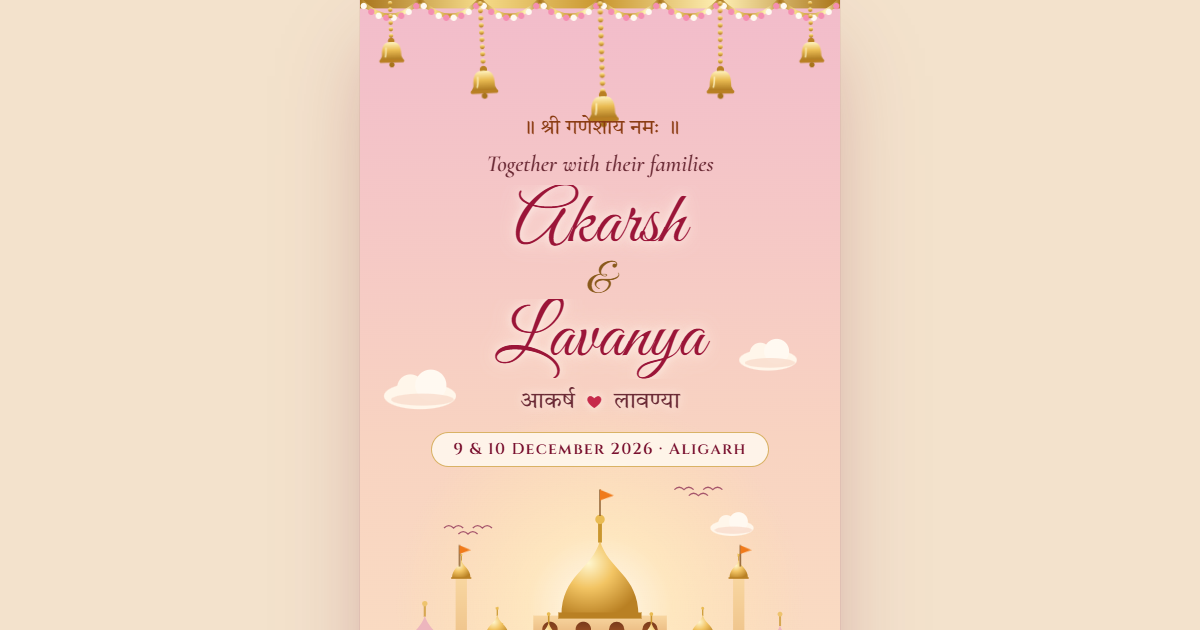
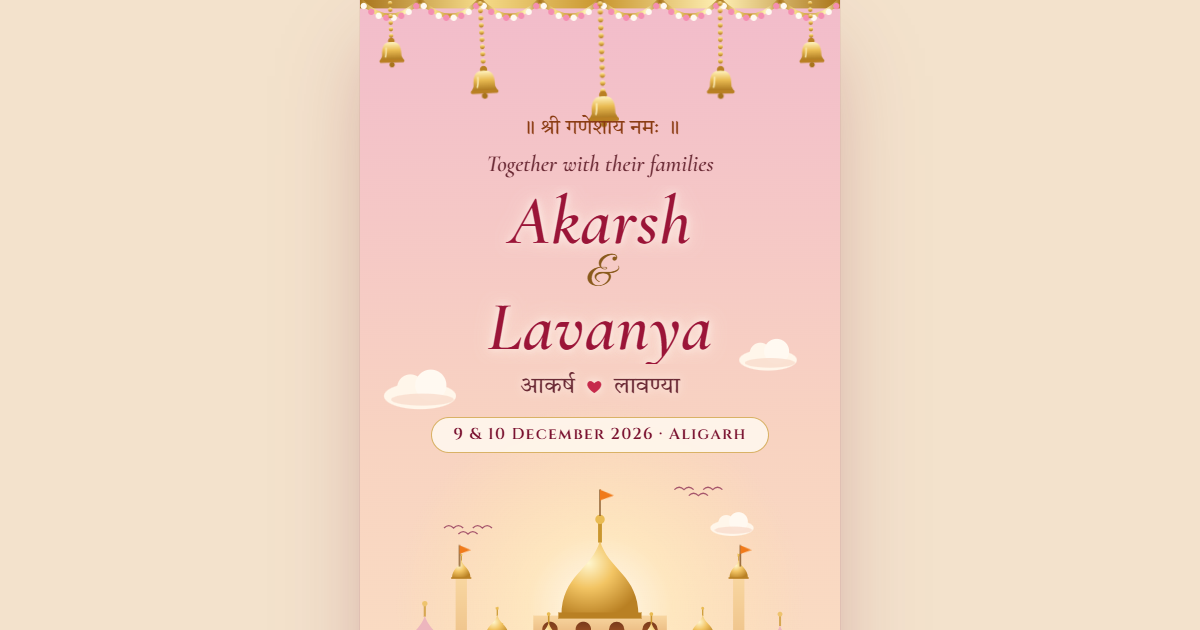
Remove RSVP form and Meet section, clear names font, wedding song
- Remove the RSVP form and the Meet the Bride & Groom section.
- Names (hero, invitation, footer) move from the script font, whose
  capital A read like a G, to Cormorant Garamond italic.
- The doors now start the wedding song (public/song.mp3, Jashn-E-Bahaara)
  inside the tap, with a "Now playing" note; until that file exists the
  composed score plays instead.

Changed region(s): [[0.3392, 0.4825, 0.6475, 0.754], [0.4317, 0.3016, 0.5858, 0.4524]]

diff --git a/app/globals.css b/app/globals.css
@@ -63,7 +63,7 @@ button{font:inherit;color:inherit;background:none;border:0;cursor:pointer}
 .bless{font-size:4.3cqw;color:#8a3b12}
 .kick{font:italic 600 4.8cqw/1.3 var(--f-body);color:#6b2a35;margin-top:1.4cqw}
 .names{display:flex;flex-direction:column;align-items:center;font-weight:400;margin-top:1cqw}
-.nm{display:block;font:400 15.5cqw/1.08 var(--f-script),cursive;color:#9b1538;padding:0 .2em;
+.nm{display:block;font:italic 600 14.5cqw/1.05 var(--f-body),Georgia,serif;letter-spacing:.01em;color:#9b1538;padding:0 .2em;
   text-shadow:0 0 .12em rgba(255,250,242,.95),0 0 .3em rgba(255,240,225,.8)}
 .amp{font:400 9cqw/1 var(--f-script),cursive;color:var(--gold-d);margin:-1cqw 0}
 .hinames{font-size:4.8cqw;margin-top:1.6cqw;color:#6b2a35;text-shadow:0 0 .4em rgba(255,250,242,.9)}
@@ -85,7 +85,7 @@ button{font:inherit;color:inherit;background:none;border:0;cursor:pointer}
 .shloka{font-size:4.5cqw;line-height:1.7;color:var(--maroon);margin-top:3cqw}
 .divider{display:block;width:40cqw;height:3cqw;margin:4cqw auto 0;background:linear-gradient(90deg,transparent,var(--gold) 30%,var(--gold) 70%,transparent) 50% 50%/100% 1.5px no-repeat}
 .divider::after{content:"❖";display:block;font-size:3cqw;line-height:3cqw;color:var(--gold);font-style:normal}
-.nm2{font:400 13cqw/1.1 var(--f-script),cursive;color:#9b1538;margin-top:2cqw}
+.nm2{font:italic 600 11.5cqw/1.1 var(--f-body),Georgia,serif;color:#9b1538;margin-top:2cqw}
 .amp2{font:400 7cqw/1 var(--f-script),cursive;color:var(--gold-d)}
 
 /* ---------- a date to remember: scratch the hearts ---------- */
@@ -139,54 +139,11 @@ button{font:inherit;color:inherit;background:none;border:0;cursor:pointer}
 .bn-cal{display:inline-flex;align-items:center;min-height:40px;margin-top:4cqw;padding:0 5cqw;border-radius:99px;font:600 max(14px,3.8cqw)/1 var(--f-body);
   color:#fff3dc;text-decoration:none;border:1px solid rgba(233,187,82,.85)}
 
-/* ---------- meet the bride & groom: a lotus frame ---------- */
-.frame{position:relative;margin:9cqw auto 0;width:88cqw;aspect-ratio:300/380}
-.frame>svg{position:absolute;inset:0;width:100%;height:100%}
-.fr-in{position:absolute;inset:16cqw 9cqw 12cqw;display:flex;flex-direction:column;align-items:center;justify-content:center}
-.pair{display:flex;justify-content:center;gap:8cqw}
-.who{display:flex;flex-direction:column;align-items:center}
-.medal{display:grid;place-items:center;width:17cqw;height:17cqw;border-radius:50%;font:400 10cqw/1 var(--f-script),cursive;color:var(--ivory);
-  background:radial-gradient(circle at 35% 30%,#c22a52,#7a1230);box-shadow:0 0 0 1cqw #fffaf2,0 0 0 1.5cqw var(--gold),0 2cqw 4cqw rgba(122,18,48,.3)}
-.who b{font:600 5.6cqw/1.2 var(--f-body);color:var(--maroon);margin-top:3cqw}
-.who .hi{font-size:3.8cqw;color:#8a3b12}
-.who em{font:600 2.8cqw/1.4 var(--f-caps),serif;font-style:normal;letter-spacing:.2em;text-transform:uppercase;color:var(--gold-d)}
-.fr-in .body{font-size:4.5cqw;margin-top:5cqw}
-.sig{font:400 7.4cqw/1.1 var(--f-script),cursive;color:var(--rose);margin-top:3cqw}
-
 /* ---------- venue ---------- */
 .v-art{margin:7cqw auto 0;width:86cqw;border-radius:4cqw;overflow:hidden;box-shadow:0 0 0 1.4cqw var(--ivory),0 0 0 calc(1.4cqw + 1.5px) var(--gold),0 4cqw 8cqw rgba(122,18,48,.18)}
 .v-art svg{display:block;width:100%;height:auto}
 .v-name{font:600 8cqw/1.15 var(--f-body);color:var(--maroon);margin-top:7cqw}
 .venue .body{margin-top:1cqw;font-style:normal;font-weight:600}
-
-/* ---------- RSVP: a maroon card ---------- */
-.card{max-width:88cqw;margin:0 auto;padding:10cqw 7cqw 8cqw;border-radius:5cqw;text-align:left;color:#fff3dc;
-  background:radial-gradient(circle at 50% 0,rgba(233,187,82,.18),transparent 55%),linear-gradient(#8d1736,#5c0c22);
-  border:2px solid #e9bb52;box-shadow:inset 0 0 0 1.4cqw #6d0c2a,inset 0 0 0 calc(1.4cqw + 1px) rgba(233,187,82,.6),0 5cqw 12cqw rgba(92,12,34,.35)}
-.r-title{font:400 11cqw/1.1 var(--f-script),cursive;color:#f6dc8a;text-align:center}
-.r-sub{font:italic 500 4.4cqw/1.3 var(--f-body);text-align:center;opacity:.9;margin-bottom:4cqw}
-.fld{display:block;border:0;margin-top:4.6cqw;font:600 3.9cqw/1.3 var(--f-body);letter-spacing:.02em;color:#f6dc8a}
-.fld legend{padding:0}
-.fld input,.fld textarea{display:block;width:100%;margin-top:1.6cqw;padding:3cqw 3.6cqw;border-radius:2.4cqw;border:1px solid rgba(233,187,82,.7);
-  background:rgba(255,250,242,.96);color:var(--ink);font:500 max(16px,4.4cqw)/1.3 var(--f-body);outline:none}
-.fld textarea{resize:vertical}
-.fld input:focus,.fld textarea:focus{box-shadow:0 0 0 3px rgba(233,187,82,.6)}
-.ph{display:flex;align-items:stretch;margin-top:1.6cqw}
-.ph>span{display:grid;place-items:center;padding:0 3cqw;border-radius:2.4cqw 0 0 2.4cqw;background:#e9bb52;color:var(--wine);font-weight:700}
-.ph input{margin-top:0;border-radius:0 2.4cqw 2.4cqw 0}
-.chips{display:flex;flex-wrap:wrap;gap:2.4cqw;margin-top:2cqw}
-.chip{position:relative}
-.chip input{position:absolute;opacity:0;width:1px;height:1px}
-.chip span{display:inline-flex;align-items:center;min-height:40px;padding:0 4cqw;border-radius:99px;border:1px solid rgba(233,187,82,.8);
-  font:600 max(14px,3.9cqw)/1 var(--f-body);color:#fff3dc;cursor:pointer;transition:background .2s,color .2s}
-.chip input:checked+span{background:#e9bb52;color:var(--wine)}
-.chip input:focus-visible+span{outline:3px solid #fff0b5;outline-offset:2px}
-.lbl{display:block}
-.stepper{display:inline-flex;align-items:center;gap:4cqw;margin-top:2cqw;padding:1cqw;border-radius:99px;border:1px solid rgba(233,187,82,.7)}
-.stepper button{width:44px;height:44px;border-radius:50%;background:#e9bb52;color:var(--wine);font:700 22px/1 var(--f-body)}
-.stepper output{min-width:6cqw;text-align:center;font:600 5cqw/1 var(--f-caps),serif;color:#fff3dc}
-.err{min-height:1.4em;margin-top:3cqw;font:italic 600 4cqw/1.3 var(--f-body);color:#ffd9e2}
-.card .btn{margin-top:2cqw}
 
 /* ---------- hashtag ---------- */
 .tag{padding-top:6cqw}
@@ -202,7 +159,7 @@ button{font:inherit;color:inherit;background:none;border:0;cursor:pointer}
 .toguest{font:italic 600 4.6cqw/1.3 var(--f-body);color:var(--rose);margin-top:2cqw}
 .toguest:empty{display:none}
 .sign{font:italic 500 4.6cqw/1.3 var(--f-body);margin-top:4cqw}
-.nmf{display:block;font:400 11cqw/1.2 var(--f-script),cursive;color:#9b1538}
+.nmf{display:block;font:italic 600 9.5cqw/1.25 var(--f-body),Georgia,serif;color:#9b1538}
 .e-art{position:relative;margin-top:8cqw;height:82.5cqw}
 .el{position:absolute;inset:0;width:100%;height:100%}
 
@@ -244,7 +201,7 @@ button{font:inherit;color:inherit;background:none;border:0;cursor:pointer}
 .muted .fab .eqi{display:none}
 .muted .fab .off{display:block}
 .toast{position:fixed;z-index:60;left:50%;bottom:calc(84px + env(safe-area-inset-bottom,0px));transform:translate(-50%,20px);background:rgba(92,12,34,.95);color:#fff3dc;
-  padding:12px 18px;border-radius:99px;font:600 16px/1 var(--f-body),serif;opacity:0;pointer-events:none;transition:all .3s;white-space:nowrap}
+  padding:12px 18px;border-radius:99px;font:600 16px/1 var(--f-body),serif;opacity:0;pointer-events:none;transition:all .3s;max-width:90vw;width:max-content;text-align:center;line-height:1.3}
 .toast.show{opacity:1;transform:translate(-50%,0)}
 .burst{position:fixed;inset:0;width:100vw;height:100vh;z-index:45;pointer-events:none}
 

diff --git a/lib/scenes.js b/lib/scenes.js
@@ -1,7 +1,7 @@
 /* Builds the whole invitation page from CONFIG: the peacock doors, then a royal scroll of sections.
    Pure functions (no browser APIs), so the page arrives as ready-made HTML.
    data-t="sheet.object" binds an element to its Theatre.js object (lib/timeline.js). */
-import { DEFS, PALACE_VB, POND_VB, palaceScene, pondScene, doorFrame, doorLeaf, bellsToran, kalash, lantern, mandala, lotusFrame, venueGate } from './art.js';
+import { DEFS, PALACE_VB, POND_VB, palaceScene, pondScene, doorFrame, doorLeaf, bellsToran, kalash, lantern, mandala, venueGate } from './art.js';
 
 export const E = s => String(s == null ? '' : s).replace(/[&<>"]/g, c => ({ '&': '&amp;', '<': '&lt;', '>': '&gt;', '"': '&quot;' }[c]));
 const U = encodeURIComponent;
@@ -92,43 +92,14 @@ function page(C) {
   ${C.events.map(banner).join('')}
 </section>
 
-<section class="sec meet" data-sec="meet" aria-label="Meet the bride and groom">
-  <h2 class="script-t" data-t="meet.t">Meet the Bride &amp; Groom</h2>
-  <div class="frame" data-t="meet.fr">${lotusFrame()}
-    <div class="fr-in">
-      <div class="pair">
-        <div class="who" data-t="meet.i0"><span class="medal">${E(a.en[0])}</span><b>${E(a.en)}</b><span class="hi">${E(a.hi)}</span><em>The Groom</em></div>
-        <div class="who" data-t="meet.i1"><span class="medal">${E(b.en[0])}</span><b>${E(b.en)}</b><span class="hi">${E(b.hi)}</span><em>The Bride</em></div>
-      </div>
-      <p class="body" data-t="meet.i2">${E(C.meetLine)}</p>
-      <p class="sig" data-t="meet.i3">${E(a.en)} &amp; ${E(b.en)}</p>
-    </div>
-  </div>
-</section>
-
 <section class="sec venue" data-sec="venue" aria-label="The venue">
+  <div class="mandala m-l" aria-hidden="true">${mandala()}</div>
   <p class="script-sub" data-t="venue.t0">${E(C.venue.line)}</p>
   <h2 class="cap big" data-t="venue.t1">The Venue</h2>
   <div class="v-art" data-t="venue.art">${venueGate()}</div>
   <h3 class="v-name" data-t="venue.i0">${E(C.venue.name)}</h3>
   <p class="body" data-t="venue.i1">${E(C.venue.address)}</p>
   <a class="btn" data-t="venue.i2" href="${mapsUrl(C)}" target="_blank" rel="noopener">Get Directions</a>
-</section>
-
-<section class="sec rsvp" data-sec="rsvp" aria-label="RSVP">
-  <div class="mandala m-l" aria-hidden="true">${mandala()}</div>
-  <form class="card" id="rsvp" data-t="rsvp.card" novalidate>
-    <p class="r-title" data-t="rsvp.t">Will you join us?</p>
-    <p class="r-sub">Kindly let us know, with all your love</p>
-    <label class="fld">Your name<input name="name" required autocomplete="name" maxlength="60"></label>
-    <label class="fld">Phone<span class="ph"><span>+91</span><input name="phone" type="tel" inputmode="tel" autocomplete="tel" maxlength="14"></span></label>
-    <fieldset class="fld"><legend>Which celebrations will you attend?</legend><div class="chips">${C.events.map(e => `<label class="chip"><input type="checkbox" name="ev" value="${E(e.short)}" checked><span>${E(e.short)}</span></label>`).join('')}</div></fieldset>
-    <fieldset class="fld"><legend>Team Bride or Team Groom?</legend><div class="chips">${[`Team ${b.en}`, `Team ${a.en}`, 'Team Both'].map((t, i) => `<label class="chip"><input type="radio" name="team" value="${E(t)}"${i === 2 ? ' checked' : ''}><span>${E(t)}</span></label>`).join('')}</div></fieldset>
-    <div class="fld"><span class="lbl">How many of you?</span><span class="stepper"><button type="button" data-d="-1" aria-label="Fewer guests">−</button><output id="guests" aria-live="polite">1</output><button type="button" data-d="1" aria-label="More guests">+</button></span></div>
-    <label class="fld">A little note for us<textarea name="note" rows="3" maxlength="400" placeholder="Share a wish, a memory, or just say hi!"></textarea></label>
-    <p class="err" id="rsvp-err" role="alert"></p>
-    <button class="btn gold" type="submit">Send your wishes</button>
-  </form>
 </section>
 
 <section class="sec tag" data-sec="tag" aria-label="Our hashtag">

diff --git a/lib/engine.js b/lib/engine.js
@@ -1,6 +1,6 @@
 /* Browser-side behaviour of the royal invitation: the peacock doors, Theatre.js entrances as each section
-   scrolls into view, music that follows the section you are on, scratch-to-reveal hearts, the countdown,
-   the RSVP form (sent on WhatsApp), hashtag copy, share and calendar. Returns a cleanup function. */
+   scrolls into view, the wedding song (or the composed score), scratch-to-reveal hearts, the countdown,
+   hashtag copy, share and calendar. Returns a cleanup function. */
 import { SHEETS, SECTIONS, MUSIC, CUES, buildState } from './timeline.js';
 import { createScore } from './score.js';
 
@@ -16,7 +16,7 @@ export function initInvitation(root, C) {
   const on = (t, ev, fn, o) => { t.addEventListener(ev, fn, o); cleanups.push(() => t.removeEventListener(ev, fn, o)); };
   let destroyed = false, ready = false, opened = false, wantOpen = false, u = 4;
   const sheets = {}, binds = [], played = new Set();
-  const score = createScore({ src: C.music && C.music.src });
+  const score = createScore({ src: C.music && C.music.src, onSong: () => C.music.title && say('♪ Now playing · ' + C.music.title) });
   html.classList.add('locked');
   if (film) html.classList.add('film');
   window.scrollTo(0, 0);
@@ -183,24 +183,6 @@ export function initInvitation(root, C) {
     cm.textContent = pad(Math.floor(s % 3600 / 60)); cs.textContent = pad(s % 60);
   }
   tick(); const cdTimer = setInterval(tick, 1000);
-
-  /* ---------- RSVP: compose a WhatsApp message ---------- */
-  let guests = 1;
-  const form = $('#rsvp'), out = $('#guests'), err = $('#rsvp-err');
-  root.querySelectorAll('.stepper button').forEach(b => on(b, 'click', () => { guests = Math.max(1, Math.min(20, guests + +b.dataset.d)); out.textContent = guests; }));
-  on(form, 'submit', e => {
-    e.preventDefault();
-    const f = new FormData(form), name = String(f.get('name') || '').trim(), events = f.getAll('ev');
-    if (!name) { err.textContent = 'Please tell us your name'; form.elements.namedItem('name').focus(); return; }
-    if (!events.length) { err.textContent = 'Please pick at least one celebration'; return; }
-    err.textContent = '';
-    const phone = String(f.get('phone') || '').replace(/[^\d+ ]/g, '').trim(), note = String(f.get('note') || '').trim();
-    const msg = [`🌸 RSVP · ${C.names[0].en} & ${C.names[1].en}`, `Name: ${name}`, phone && `Phone: +91 ${phone}`, `Attending: ${events.join(', ')}`,
-      `Guests: ${guests}`, `${f.get('team') || ''}`, note && `Note: ${note}`].filter(Boolean).join('\n');
-    const num = String(C.rsvp.whatsapp || '').replace(/\D/g, '');
-    window.open(`https://wa.me/${num}?text=${encodeURIComponent(msg)}`, '_blank', 'noopener');
-    say('Opening WhatsApp…'); score.sfx('chime');
-  });
 
   /* ---------- hashtag, share, calendar (iPhone gets a real .ics; others open Google Calendar) ---------- */
   let tt;

diff --git a/lib/score.js b/lib/score.js
@@ -1,7 +1,7 @@
 /* The original wedding score, composed and synthesized in code with Web Audio: no recordings, no samples.
    100 BPM in F major (one bar = 2.4 s). Santoor plucks, a tanpura drone, a shehnai lead, dholak, claps,
    ghungroo and temple bells. Every scene has its own 4-bar section; a change lands on the next downbeat.
-   CONFIG.music.src (your own licensed song) replaces the score; the sound effects stay. */
+   CONFIG.music.src (a song file in public/) replaces the score when the file exists; the sound effects stay. */
 const BPM = 100;
 export const BEAT = 60 / BPM, BAR = BEAT * 4;
 const mtof = m => 440 * Math.pow(2, (m - 69) / 12);
@@ -48,6 +48,13 @@ export function createScore(opts = {}) {
     if (navigator.audioSession) try { navigator.audioSession.type = 'playback'; } catch (e) { /* older Safari */ }
     ctx = new AC();
     ctx.resume();
+    if (opts.src && !song) {
+      song = new Audio(opts.src); song.loop = true; song.preload = 'auto';
+      const fail = () => { if (song) song.pause(); song = null; };   // no song file yet: the composed score plays instead
+      song.addEventListener('error', fail);
+      song.addEventListener('playing', () => opts.onSong && opts.onSong(), { once: true });
+      song.play().catch(e => { if (e.name !== 'AbortError') fail(); });
+    }
     return true;
   }
   function start(lead = .35) {
@@ -65,11 +72,6 @@ export function createScore(opts = {}) {
     comp.connect(master); master.connect(analyser); analyser.connect(ctx.destination);
     noise = ctx.createBuffer(1, ctx.sampleRate * 2, ctx.sampleRate);
     const nd = noise.getChannelData(0); for (let i = 0; i < nd.length; i++) nd[i] = Math.random() * 2 - 1;
-    if (opts.src) {
-      song = new Audio(opts.src); song.loop = true; song.crossOrigin = 'anonymous';
-      ctx.createMediaElementSource(song).connect(music);
-      song.play().catch(() => {});
-    }
     nextBar = ctx.currentTime + lead;
     timer = setInterval(sched, 30);
     sched();
@@ -262,7 +264,7 @@ export function createScore(opts = {}) {
       muted = m;
       if (!master) return;
       master.gain.setTargetAtTime(m ? 0 : vol, ctx.currentTime, .08);
-      if (song) m ? song.pause() : song.play().catch(() => {});
+      if (song) song.muted = m;
     },
     suspend() { if (ctx) { ctx.suspend(); if (song) song.pause(); } },
     resume() { if (ctx) { ctx.resume(); if (song && !muted) song.play().catch(() => {}); } },

diff --git a/lib/config.js b/lib/config.js
@@ -23,13 +23,12 @@ export const CONFIG = {
   gateLine: "You are cordially invited to a royal celebration of love",
   inviteLine: "With joy and the blessings of our elders, we invite you to celebrate the wedding of",
   dateLine: "Mark your calendars — our forever begins on this joyous day, and we would be honoured to have you by our side.",
-  meetLine: "With our hearts full and smiles wide, come celebrate our love, share our joy, and help make these days a beautiful memory we will cherish forever.",
   hashtag: "#AkarshWedsLavanya",
   // Personal invites: add ?to=Sharma%20Family to the link and the invitation greets them by name.
 
-  // Music: an original score is composed in code and plays when the guest opens the doors.
-  // To use your own licensed song instead, put it in public/ (e.g. public/song.mp3) and set src: "/song.mp3".
-  music: { src: "" },
+  // The song that plays when the guest opens the doors. Put your copy of the song in public/song.mp3.
+  // Until that file exists, the original score (composed in code) plays instead.
+  music: { src: "/song.mp3", title: "Jashn-E-Bahaara · Jodhaa Akbar" },
 
   // Exactly three celebrations, in this order. short = the name on the RSVP form.
   // calTitle + cal = the calendar entry; cal is start/end in Indian time, format YYYYMMDDTHHMMSS.
@@ -76,10 +75,6 @@ export const CONFIG = {
     line: "Where all three celebrations unfold",
     mapsQuery: "Green View Resort, Agra Road, Aligarh"
   },
-
-  // RSVP answers are sent on WhatsApp. Put a number with country code, digits only (e.g. 919876543210);
-  // leave "" and guests choose whom to send it to.
-  rsvp: { whatsapp: "" },
 
   closingHi: "आपकी प्रतीक्षा में",
   closingEn: "We look forward to welcoming you",

diff --git a/lib/timeline.js b/lib/timeline.js
@@ -6,8 +6,8 @@
    sounds on the same clock. buildState() makes the project state that Theatre's Studio exports. */
 
 /* page sections, top to bottom, and the music section each one asks for */
-export const SECTIONS = ['hero', 'invite', 'date', 'count', 'fest', 'meet', 'venue', 'rsvp', 'tag', 'end'];
-export const MUSIC = { hero: 'cover', invite: 'story', date: 'families', count: 'families', fest: 'sangeet', meet: 'vivah', venue: 'venue', rsvp: 'venue', tag: 'finale', end: 'finale' };
+export const SECTIONS = ['hero', 'invite', 'date', 'count', 'fest', 'venue', 'tag', 'end'];
+export const MUSIC = { hero: 'cover', invite: 'story', date: 'families', count: 'families', fest: 'sangeet', venue: 'vivah', tag: 'finale', end: 'finale' };
 
 const EASE = {
   out: [.16, 1, .3, 1], soft: [.4, 0, .2, 1], inOut: [.65, 0, .35, 1],
@@ -42,9 +42,7 @@ export const SHEETS = {
   date: { t: fade(0), h0: pop(.3), h1: pop(.45), h2: pop(.6), ...fades('i', 3, .9) },
   count: { t: fade(0), ...Object.fromEntries([0, 1, 2, 3].map(i => ['c' + i, rise(.2 + i * .14, 16)])) },
   fest: { ...fades('t', 2, 0), b0: drop(.3), b1: drop(.55), b2: drop(.8), ln: fade(1.2, 1.2, -6) },
-  meet: { t: fade(0), fr: pop(.2, .9, .9), ...fades('i', 4, .6) },
   venue: { ...fades('t', 2, 0), art: rise(.25, 10), ...fades('i', 3, .7) },
-  rsvp: { card: rise(.1, 12), t: fade(.3) },
   tag: { t: fade(0), h: pop(.3, .7, .6) },
   end: { ...fades('i', 4, 0), art: rise(.4, 10, 1.4) }
 };
@@ -55,7 +53,7 @@ export const CUES = {
   date: [[.3, 'pop']],
   count: [[.2, 'shimmer']],
   fest: [[.3, 'whoosh'], [1, 'chime']],
-  meet: [[.3, 'shimmer']],
+  venue: [[.3, 'shimmer']],
   tag: [[.3, 'pop']],
   end: [[.2, 'chime']]
 };

diff --git a/lib/art.js b/lib/art.js
@@ -258,18 +258,6 @@ export function pondScene() {
   return [back, water, front];
 }
 
-/* an ornate lotus frame for the bride & groom (viewBox 300 × 380) */
-export function lotusFrame() {
-  const lobes = (y, dir) => range(5, i => `<path d="M${30 + i * 48},${y} q24,${dir * 26} 48,0" fill="none" stroke="url(#gGoldH)" stroke-width="3"/>`);
-  return `<svg viewBox="0 0 300 380" preserveAspectRatio="none" aria-hidden="true">
-    <rect x="12" y="30" width="276" height="320" rx="18" fill="#fffaf2" opacity=".86"/>
-    <rect x="12" y="30" width="276" height="320" rx="18" fill="none" stroke="url(#gGoldH)" stroke-width="3"/>
-    <rect x="22" y="40" width="256" height="300" rx="12" fill="none" stroke="#e8a3b8" stroke-width="1.5"/>
-    ${lobes(30, -1)}${lobes(350, 1)}
-    ${lotus(150, 30, 1.3)}${lotus(150, 350, .9)}
-    ${[[22, 40], [278, 40], [22, 340], [278, 340]].map(([x, y]) => `<circle cx="${x}" cy="${y}" r="7" fill="url(#gRose)"/>`).join('')}
-  </svg>`;
-}
 /* the resort gate for the venue card (viewBox 300 × 190) */
 export function venueGate() {
   return `<svg viewBox="0 0 300 190" aria-hidden="true"><rect width="300" height="190" rx="16" fill="url(#gSky)"/><circle cx="150" cy="96" r="80" fill="url(#gSun)"/>

diff --git a/README.md b/README.md
@@ -6,21 +6,19 @@ no image files.
 **What guests see, top to bottom:**
 1. **The peacock door:** a blue mosaic palace door with a peacock-feather fan. "Tap to open the doors" swings
    the carved doors inward and the music begins.
-2. **The palace at sunset:** golden bells swinging from a carved arch, the names in rose script, and a painted
+2. **The palace at sunset:** golden bells swinging from a carved arch, the names in rose italic, and a painted
    golden palace with the couple walking up a flower path between peacocks.
 3. **The invitation:** an arched ivory panel with a kalash, the Vakratunda shloka and the invitation.
 4. **A date to remember:** three hearts guests scratch with a finger to reveal the day, month and year.
 5. **Counting the moments:** a live countdown in four coloured jharokha arches.
 6. **The royal festivities:** each celebration on a red-and-gold banner hanging from ropes, beside lanterns,
    with Add to calendar.
-7. **Meet the bride & groom:** a lotus frame with both names and a few warm lines.
-8. **The venue:** Green View Resort with Get Directions.
-9. **RSVP:** name, phone, which celebrations, Team Bride / Team Groom, how many, a note; it opens WhatsApp with
-   the answers filled in.
-10. **Our hashtag** (tap to copy), then a lotus pond with an elephant, and Share.
+7. **The venue:** Green View Resort with Get Directions.
+8. **Our hashtag** (tap to copy), then a lotus pond with an elephant, and Share.
 
 Sections animate in (Theatre.js) as they scroll into view; blue peacock mandalas at the edges turn as you
-scroll; the original score (`lib/score.js`) changes with the section you are on; ♪ mutes it.
+scroll. The wedding song (`public/song.mp3`, see `music` in `lib/config.js`) plays when the doors open; until that
+file exists, the original score (`lib/score.js`) plays instead. ♪ mutes it.
 
 ## 1. Run it
 
@@ -33,19 +31,17 @@ You need Node.js 18.18 or newer.
 ## 2. Edit your details
 
 Open `lib/config.js`: names, the shloka and invitation lines, the three celebrations, the wedding day for the
-scratch hearts and countdown, venue, hashtag, the WhatsApp number for RSVPs (leave it empty and guests choose
-whom to send it to), and `music.src` for your own licensed song instead of the original score.
+scratch hearts and countdown, venue, hashtag, and the song (`music`).
 
 **Personal invites:** add `?to=` to the link, e.g. `…/?to=Sharma%20Family`. The doors greet them with
 "Dear Sharma Family," and the end says "We can't wait to celebrate with you, Sharma Family."
 
 ## 3. How it's built
 
-    lib/art.js        the illustrations: peacock door, palace at sunset, bells, kalash, lanterns, lotus frame,
-                      peacock mandala, venue gate, elephant in a lotus pond
+    lib/art.js        the illustrations: peacock door, palace at sunset, bells, kalash, lanterns, peacock mandala, venue gate, elephant in a lotus pond
     lib/timeline.js   Theatre.js choreography: the doors, the hero, each section's entrance, sound cues
     lib/scenes.js     the HTML of the doors and every section
-    lib/engine.js     doors, section entrances on scroll, scratch hearts, countdown, RSVP, hashtag, share, music
+    lib/engine.js     doors, section entrances on scroll, scratch hearts, countdown, hashtag, share, music
     lib/score.js      the music and sound effects, synthesized with Web Audio
     app/globals.css   all styling (sizes in cqw: 1% of the page width)
     app/fonts.css     self-hosted fonts (public/fonts), so builds never depend on Google Fonts
